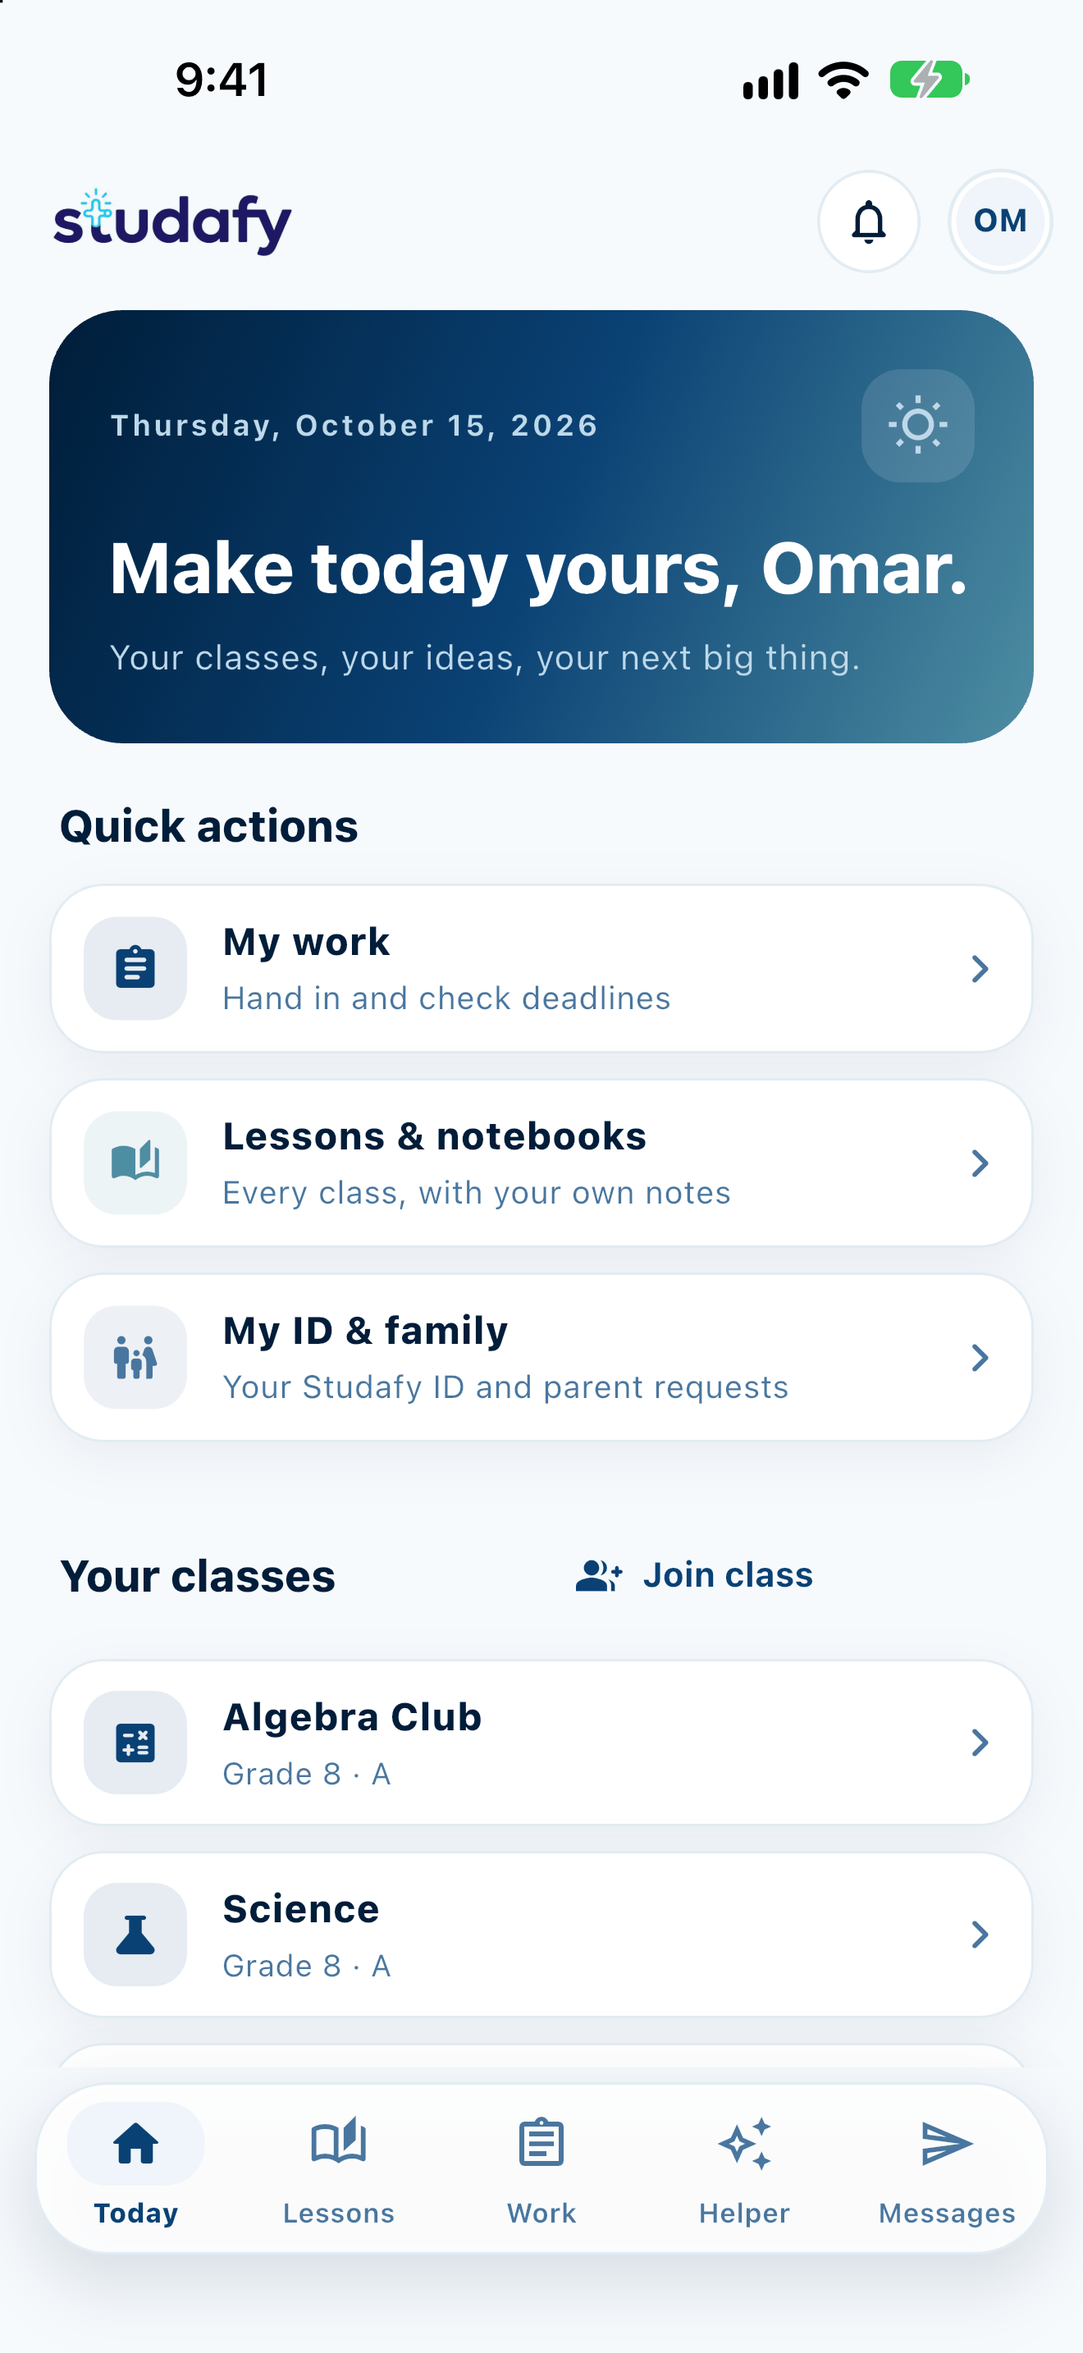
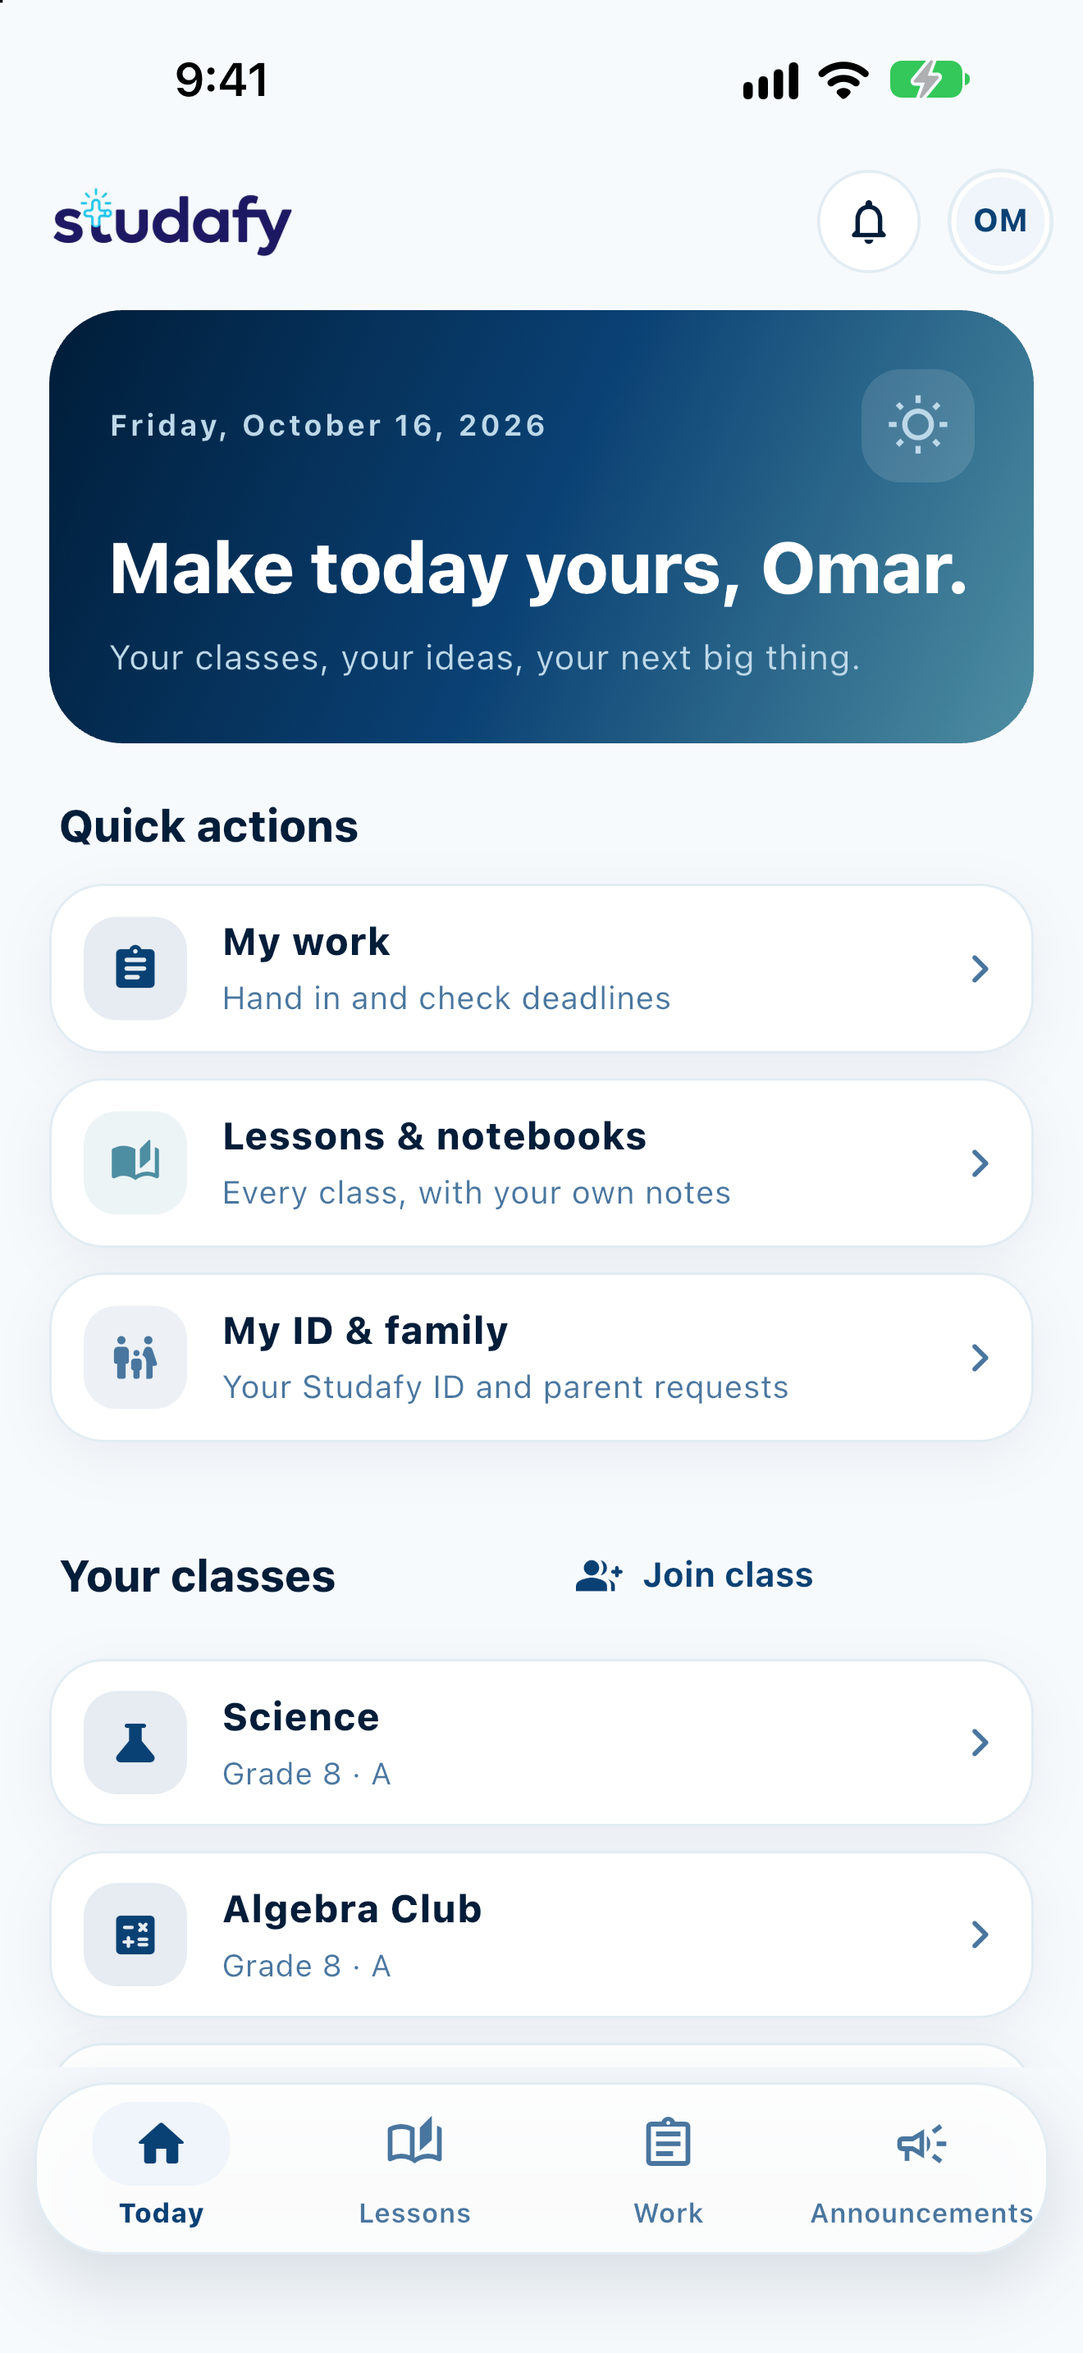
Store screenshots with AI and messaging off: Google Play set, iPhone retaken
Taken on top of fix/hide-off-features (PR #86), so the pictures show what
a real user sees at launch: no Helper tab, plans or AI buttons (the API has
no AI key), and no Messages, Inbox or "Message a teacher" (messaging off, DL-061).

- Google Play (docs/store/screenshots/android/{en,ar}): the launch set 1,
  5, 4, 11, 9, 10, 12, 14 from an Android 16 emulator at 1080 x 2160 (2:1,
  the longest Play allows), status bar in demo mode.
- App Store (docs/store/screenshots/ios/{en,ar}): every walked screen
  retaken on the iPhone 18 Pro Max simulator, now lossless 24-bit RGB
  (they were 8-bit palette PNGs). The two messaging pictures are removed
  until messaging launches.
- scripts/store/capture-android.sh: the Android twin of capture-ios.sh.
- capture-ios.sh: the simulator may not replace a file in the repo, so it
  writes to the scratch directory and moves it; retries a busy simulator.
- compress-screenshots.ts: sharp's `effort` switched on lossy palette
  output; it now writes lossless 24-bit RGB.
- seed-store-school.ts: registers each address with
  allow_provisioned_email_account (email sign-up is refused otherwise);
  messaging stays off as at launch (DL-061), and `--messaging on` (with
  local-api.ts --messaging on) turns the school's switch on and seeds the
  conversation.
- store_screenshots_test.dart: skips the conversation pictures when the
  tab is not there, and finds Announcements by its label.
[…]

diff --git a/scripts/store/seed-store-school.ts b/scripts/store/seed-store-school.ts
@@ -9,12 +9,22 @@
  *
  * Everything product-shaped goes through the real /v1 API over HTTP, as the
  * app sends it. The only other calls are Supabase Auth's admin API (to
- * create the accounts with a password, since the app itself only offers
- * Google, Microsoft and Apple) and the `record_policy_consent` RPC the app
- * calls when someone ticks the terms box.
+ * create the accounts with a password, as Studafy provisions reviewer
+ * accounts, after registering each address with
+ * `allow_provisioned_email_account`) and the `record_policy_consent` RPC the
+ * app calls when someone ticks the terms box.
  *
  *   bun --no-env-file scripts/store/seed-store-school.ts \
- *     --workdir <throwaway stack dir> --api http://127.0.0.1:8095
+ *     --workdir <throwaway stack dir> --api http://127.0.0.1:8095 \
+ *     [--messaging on]
+ *
+ * Messaging stays off, as at launch (DL-049, DL-061): a new school starts
+ * with its switch off and the API runs with MESSAGING_ENABLED off, so no
+ * conversation is seeded. For pictures of messaging once it launches, start
+ * the API and run this with `--messaging on`: the school's switch is then
+ * turned on (a second direct database write) and the teacher-parent
+ * conversation seeded. AI is off when the API has no AI key, as
+ * scripts/store/local-api.ts starts it.
  *
  * Names are fictional and every email is at synthetic.studafy.test. Run it
  * on a freshly reset throwaway stack: it is not idempotent.
@@ -43,6 +53,25 @@ let sql: postgres.Sql;
 // --- Auth (Supabase) ----------------------------------------------------------
 
 async function createUser(email: string, name: string): Promise<string> {
+  // Email sign-up is refused unless the service role registered the address
+  // minutes before (migration 202610150050).
+  const allowed = await fetch(
+    `${supabaseUrl}/rest/v1/rpc/allow_provisioned_email_account`,
+    {
+      method: "POST",
+      headers: {
+        apikey: serviceKey,
+        Authorization: `Bearer ${serviceKey}`,
+        "Content-Type": "application/json",
+      },
+      body: JSON.stringify({ requested_email: email }),
+    },
+  );
+  if (!allowed.ok) {
+    throw new Error(
+      `allow ${email}: ${allowed.status} ${await allowed.text()}`,
+    );
+  }
   const res = await fetch(`${supabaseUrl}/auth/v1/admin/users`, {
     method: "POST",
     headers: {
@@ -419,16 +448,26 @@ async function seedSchool(locale: Locale, c: SchoolContent): Promise<Json> {
       important: item.important,
     });
   }
-  const conversation = await parent.post("/v1/conversations", {
-    schoolId,
-    participantIds: [teacher.id],
-  });
-  for (const [from, body] of c.conversation) {
-    const who = from === "teacher" ? teacher : parent;
-    await who.post(`/v1/conversations/${conversation["id"]}/messages`, {
-      clientMessageId: crypto.randomUUID(),
-      body,
+  if (arg("--messaging") === "on") {
+    // The second direct database write: the school's own messaging switch,
+    // off when a teaching space is made (DL-061). Only a school
+    // administrator - of whom this release has none - may change it through
+    // the API.
+    await sql`
+      update public.school_content_controls set messaging_enabled = true
+      where school_id = ${schoolId}::uuid
+    `;
+    const conversation = await parent.post("/v1/conversations", {
+      schoolId,
+      participantIds: [teacher.id],
     });
+    for (const [from, body] of c.conversation) {
+      const who = from === "teacher" ? teacher : parent;
+      await who.post(`/v1/conversations/${conversation["id"]}/messages`, {
+        clientMessageId: crypto.randomUUID(),
+        body,
+      });
+    }
   }
   await student.post(`/v1/classrooms/${maths}/notebook`, {
     title: c.note.title,

diff --git a/integration_test/store_screenshots_test.dart b/integration_test/store_screenshots_test.dart
@@ -10,6 +10,7 @@ import 'package:studafy/core/studafy_design.dart';
 import 'package:studafy/core/studafy_domain.dart';
 import 'package:studafy/data/backend.dart';
 import 'package:studafy/features/session/presentation/role_page.dart';
+import 'package:studafy/l10n/generated/app_l10n.dart';
 import 'package:studafy/main.dart';
 
 /// Store screenshots (launch plan A4): the real app, signed in as each role
@@ -107,6 +108,9 @@ final _words = {
   },
 }[_locale]!;
 
+/// The app's own labels, in the language being shot.
+final _l10n = lookupAppL10n(const Locale(_locale));
+
 /// Content a person typed is wrapped (direction isolates) by
 /// `UserContentText`, so it is matched inside rich text, not exactly.
 Finder _find(String key) =>
@@ -126,10 +130,14 @@ Future<void> _teacher(_Shots shots) async {
   await shots.tap(_find('exam'));
   await shots.take('teacher-5-online-exam');
   await shots.back();
-  await shots.tab(4);
-  await shots.tap(_find('parent'));
-  await shots.take('teacher-6-messages');
-  await shots.back();
+  // Only where the school has messaging on: otherwise the last tab is the
+  // school's announcements, and there is no conversation to show.
+  if (shots.hasTab(_l10n.navInbox)) {
+    await shots.tab(4);
+    await shots.tap(_find('parent'));
+    await shots.take('teacher-6-messages');
+    await shots.back();
+  }
 }
 
 Future<void> _student(_Shots shots) async {
@@ -158,12 +166,15 @@ Future<void> _parent(_Shots shots) async {
   await shots.tap(_find('student'));
   await shots.take('parent-2-progress');
   await shots.back();
-  await shots.tab(shots.tabCount - 2);
+  await shots.tabLabelled(_l10n.navAnnouncements);
   await shots.take('parent-3-announcements');
-  await shots.tab(shots.tabCount - 1);
-  await shots.tap(_find('teacher'));
-  await shots.take('parent-4-messages');
-  await shots.back();
+  // Only where the school has messaging on.
+  if (shots.hasTab(_l10n.navMessages)) {
+    await shots.tabLabelled(_l10n.navMessages);
+    await shots.tap(_find('teacher'));
+    await shots.take('parent-4-messages');
+    await shots.back();
+  }
 }
 
 class _Shots {
@@ -175,6 +186,20 @@ class _Shots {
 
   Future<void> tab(int index) async {
     await tester.tap(find.byType(StudafyNavDestination).at(index));
+    await settle();
+  }
+
+  Finder _navLabel(String label) => find.descendant(
+    of: find.byType(StudafyNavigationBar),
+    matching: find.text(label),
+  );
+
+  /// Whether the tab bar has a tab with [label]: a tab for something the
+  /// server has switched off is not there.
+  bool hasTab(String label) => _navLabel(label).evaluate().isNotEmpty;
+
+  Future<void> tabLabelled(String label) async {
+    await tester.tap(_navLabel(label).first);
     await settle();
   }
 

diff --git a/scripts/store/compress-screenshots.ts b/scripts/store/compress-screenshots.ts
@@ -2,11 +2,11 @@
  * Makes the store screenshots uploadable and smaller: simulator pictures
  * carry an alpha channel, which App Store Connect refuses, and Google Play
  * asks for 24-bit PNG. This removes the alpha channel and recompresses
- * losslessly (about a third of the size). It uses sharp, which is not a
- * dependency of the repo:
+ * losslessly as 24-bit RGB (a fifth smaller or so). It uses sharp, which is
+ * not a dependency of the repo:
  *
  *   bun add --no-save sharp@0.34
- *   bun scripts/store/compress-screenshots.ts [docs/store/screenshots/ios]
+ *   bun scripts/store/compress-screenshots.ts [docs/store/screenshots/ios|android]
  */
 import { readdirSync, statSync, writeFileSync } from "node:fs";
 import { join } from "node:path";
@@ -31,7 +31,10 @@ for (const dir of readdirSync(root)) {
     before += statSync(file).size;
     const out = await sharp(file)
       .removeAlpha()
-      .png({ compressionLevel: 9, effort: 10, adaptiveFiltering: true })
+      // 24-bit RGB, lossless. No `effort`, `quality` or `colours`: sharp
+      // takes any of them as a request for an 8-bit palette, which is lossy
+      // and not the 24-bit PNG Play asks for.
+      .png({ compressionLevel: 9, adaptiveFiltering: true, palette: false })
       .toBuffer();
     writeFileSync(file, out);
     after += out.length;

diff --git a/scripts/store/local-api.ts b/scripts/store/local-api.ts
@@ -70,6 +70,8 @@ if (import.meta.main) {
     FILE051_DELIVERY_PUBLIC_BASE_URL: `http://127.0.0.1:${port}`,
     API_REQUEST_TIMEOUT_MS: "20000",
     PAY071_BILLING_ENABLED: "false",
+    // Off, as in production (DL-061); `--messaging on` for pictures of it.
+    MESSAGING_ENABLED: arg("--messaging") === "on" ? "true" : "false",
   };
   const child = Bun.spawn(
     [process.execPath, "--no-env-file", "apps/api/src/index.ts"],

diff --git a/docs/store/listing-copy.md b/docs/store/listing-copy.md
@@ -507,20 +507,46 @@ diacritics count. Keywords are UTF-8 bytes, as Apple counts them. A row
 
 ### What was taken
 
-The real app (a debug build), signed in to a synthetic school, on an
-**iPhone 18 Pro Max simulator** (iOS 27). That is the 6.9" App Store size,
-1320 × 2868. The status bar is set to 9:41 with full bars.
+The real app (a debug build), signed in to a synthetic school, as it is at
+launch: **AI off and messaging off.** Since PR #86 the app shows nothing
+the server has switched off, so these pictures show what a real user sees:
+
+- **No AI:** no Helper tab, no plans, no study tools, no AI buttons in the
+  notebook. The API ran with no AI key, so nothing was sent to a provider.
+- **No messaging:** messaging is off, as it is at launch (DL-049, DL-061):
+  the API ran with `MESSAGING_ENABLED` off and a new school starts with its
+  own switch off. The student's and the teacher's last tab is the school's
+  **Announcements**, and the parent has no Messages tab and no "Message a
+  teacher".
+
+Two sets, the same walk on each:
+
+- **App Store:** an **iPhone 18 Pro Max simulator** (iOS 27), 1320 × 2868,
+  the 6.9" size. The status bar is overridden to 9:41 with full bars.
+  `ios/en/<name>-en.png` and `ios/ar/<name>-ar.png`.
+- **Google Play:** an **Android 16 emulator** (Google APIs, arm64) set to a
+  **1080 × 2160** phone screen at 420 dpi. That is exactly 2:1, the longest
+  Play allows (the iPhone's 2868 / 1320 is 2.17, and the stock 1080 × 2400
+  Pixel profiles are 2.22). The status bar is in Android's demo mode: 9:41,
+  full battery and Wi-Fi, no notifications, no mobile icon. Navigation is
+  by gesture, so only the thin handle shows. `android/en/<name>-en.png` and
+  `android/ar/<name>-ar.png`, the Play launch set only.
+
+Both:
 
 - **Data:** the school is seeded through the real `/v1` API. Its local API
   runs on a throwaway Supabase stack, never the working database or the
   hosted one.
-- **AI:** off. There is no AI key and nothing was sent to a provider.
 - **Names:** every name is fictional, and every email is at
   `synthetic.studafy.test`.
-
-Each picture exists in English (`ios/en/<name>-en.png`) and Arabic
-(`ios/ar/<name>-ar.png`). The Arabic school has its own Arabic content, so
-every Arabic picture is right to left throughout.
+- **Arabic:** the Arabic school has its own Arabic content, so every Arabic
+  picture is right to left throughout. "Family+" in the parent's tab bar
+  reads correctly (it showed as "+Family" before PR #86), and the due-date
+  time zone reads "(Asia/Amman)". The status bar stays in the device's
+  language.
+- **Format:** 24-bit RGB PNG with no alpha channel, as both stores ask.
+  `scripts/store/compress-screenshots.ts` removed the simulator's alpha
+  channel losslessly.
 
 | # | Name | Shows |
 |---|---|---|
@@ -529,7 +555,7 @@ every Arabic picture is right to left throughout.
 | 3 | `teacher-3-lessons` | Teaching: published lessons |
 | 4 | `teacher-4-grade-sheet` | A paper test's grade sheet: published marks, weight, corrections |
 | 5 | `teacher-5-online-exam` | An online exam's submissions to mark; absences never count as zero |
-| 6 | `teacher-6-messages` | A conversation with a parent |
+| 6 | `teacher-6-messages` | A conversation with a parent (not taken: messaging is off) |
 | 7 | `student-1-today` | Student home: quick actions and classes |
 | 8 | `student-2-notebook` | The student's own notebook for a class |
 | 9 | `student-3-homework` | Homework to do, with due dates |
@@ -538,45 +564,18 @@ every Arabic picture is right to left throughout.
 | 12 | `parent-1-today` | Parent home: the linked child |
 | 13 | `parent-2-progress` | The child's average of published marks and attendance |
 | 14 | `parent-3-announcements` | Class announcements, one marked important |
-| 15 | `parent-4-messages` | The same conversation, from the parent's side |
+| 15 | `parent-4-messages` | The same conversation, from the parent's side (not taken: messaging is off) |
 
 **Launch set** (decision 7). Google Play shows up to 8 phone screenshots;
-the App Store takes up to 10 per language. Play: 1, 5, 4, 11, 9, 10, 12, 14.
-App Store: the same, then 13 and 2. Add 6 and 15 when messaging is on.
+the App Store takes up to 10 per language.
 
-**What the owner should know before using them:**
+- **Google Play:** 1, 5, 4, 11, 9, 10, 12, 14, from `android/`.
+- **App Store:** the same from `ios/`, then 13 and 2.
 
-- **AI and plan upsells are visible** in some pictures, because the app shows
-  them even with AI switched off:
-  - the student tab bar has a **Helper** tab (pictures 7, 9, 10);
-  - the notebook (8) shows locked Studafy Plus buttons ("Snap the
-    whiteboard", "Summarise selected materials").
-
-  If AI and Plus are off at launch (B1), Apple may ask about features that
-  cannot be used. Either hide the tab and the locked buttons in a
-  no-AI build and retake the pictures, or leave out 7–10 and use 11.
-- **Arabic layout:** in the Arabic homework list (9) the time zone after a
-  due date shows as "(Asia/ Amman)", with the brackets split by the
-  right-to-left layout. It is a small app bug; fix it before taking the
-  final pictures.
-- **Google Play cannot take these as they are.** Play allows a long side of
-  at most twice the short side, and 2868 / 1320 is 2.17. They also show an
-  iPhone status bar. Play needs its own pictures (see below), or these
-  cropped to 1320 × 2640, which cuts off the status bar and the tab bar.
-- **Format:** 24-bit PNG with no alpha channel, as both stores ask. The
-  simulator's alpha channel was removed by
-  `scripts/store/compress-screenshots.ts`; the pictures are otherwise
-  unchanged (lossless).
-
-### Android
-
-Not taken. The machine was shared with other agents running two more
-simulators and Xcode builds, with load averages between 250 and 880, so an
-Android emulator and a Gradle build on top were not cheap. To take them
-later, add an Android branch to `scripts/store/capture-ios.sh`. The test
-itself, `integration_test/store_screenshots_test.dart`, is
-platform-neutral. Use `adb exec-out screencap -p` in place of
-`simctl io screenshot`, with the emulator's demo mode for a clean status bar.
+`ios/` also has 3, 7 and 8, which are not in the launch set. When messaging
+launches, take 6 and 15 (start the API and seed with `--messaging on`),
+and retake the pictures whose tab bars change: 1, 9, 10, 12 and 14. When AI
+launches, retake the student pictures.
 
 ### Taking them again
 
@@ -588,17 +587,36 @@ From the repo root:
    `bunx supabase start --workdir <dir>` (or `db reset` on an existing one).
 2. Start the API:
    `bun --no-env-file scripts/store/local-api.ts --workdir <dir> --port 8095`.
+   It has no AI key, so the AI tools are off, and messaging is off as in
+   production; add `--messaging on` for pictures of messaging.
 3. Seed:
-   `bun --no-env-file scripts/store/seed-store-school.ts --workdir <dir>`.
-4. Boot an iPhone Pro Max simulator, then run
+   `bun --no-env-file scripts/store/seed-store-school.ts --workdir <dir>`
+   (with `--messaging on` to match the API).
+4. **App Store:** boot an iPhone Pro Max simulator, then run
    `scripts/store/capture-ios.sh <dir> <simulator udid> en`, and the same
-   with `ar`. Re-seed between runs, because the student starts the exam.
-5. Remove the alpha channel (App Store Connect refuses it):
+   with `ar`.
+5. **Google Play:** boot one phone emulator whose AVD `config.ini` has
+   `hw.lcd.width=1080` and `hw.lcd.height=2160`. Give it a minute after
+   booting, then run
+   `scripts/store/capture-android.sh <dir> emulator-5554 en` (and `ar`).
+   - It needs JAVA_HOME; Android Studio's `jbr` works.
+   - It keeps every screen it walks: keep only the eight of the launch set.
+6. **Between runs:** reset and re-seed between devices, because the student
+   starts the exam. Each language's school is separate, so `en` then `ar`
+   on one seed is fine. `STORE_ONLY=teacher` or `STORE_ONLY=parent` repeats
+   a walk that changes nothing.
+7. **Look at every picture.** On a loaded machine, a screen can be caught
+   showing "could not be loaded", or with a "System UI isn't responding"
+   dialog and no demo clock. Run that walk again.
+8. **Remove the alpha channel** (App Store Connect refuses it):
    `bun add --no-save sharp@0.34 && bun scripts/store/compress-screenshots.ts`.
+   Add `docs/store/screenshots/android` to do the Play set.
 
-The seed makes one direct database write: it moves the enrolment start
-dates back to the start of term, so past attendance can be recorded. The
-seed script explains why.
+The seed makes one direct database write, explained in the script: it
+moves the enrolment start dates back to the start of term, so past
+attendance can be recorded. With `--messaging on` it makes a second: it
+turns the school's own messaging switch on, which only a school
+administrator may change through the API, and this release has none.
 
 ---
 
